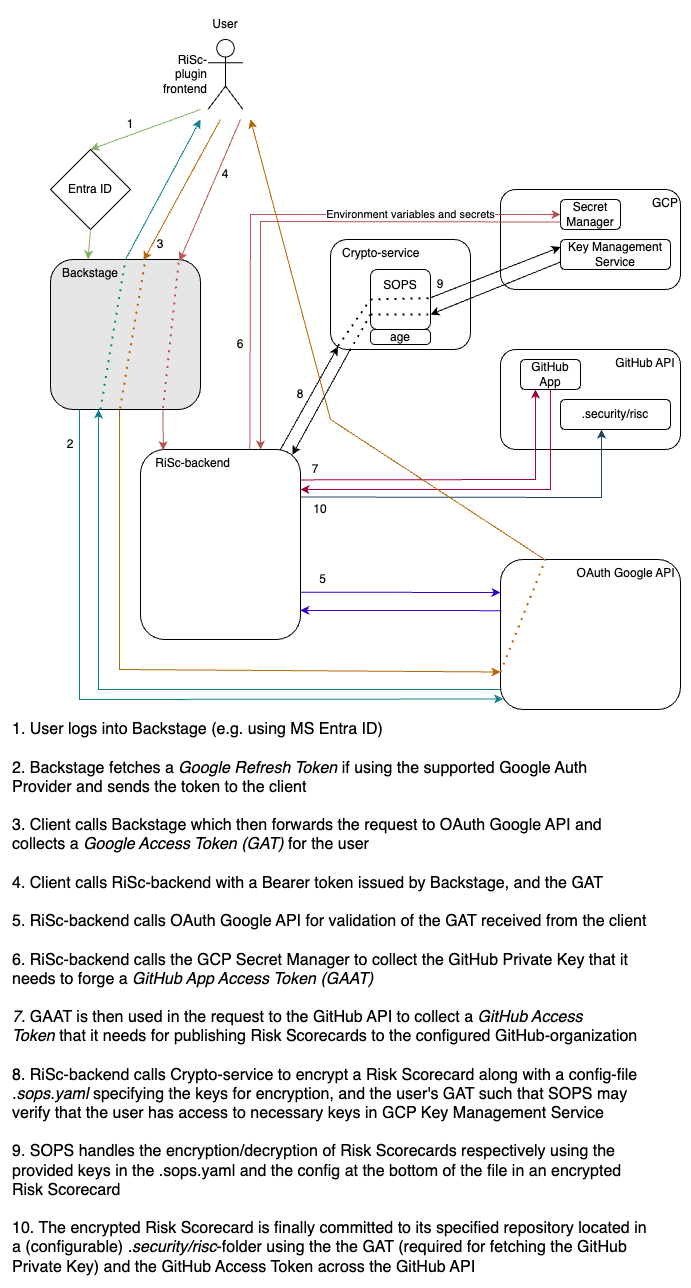
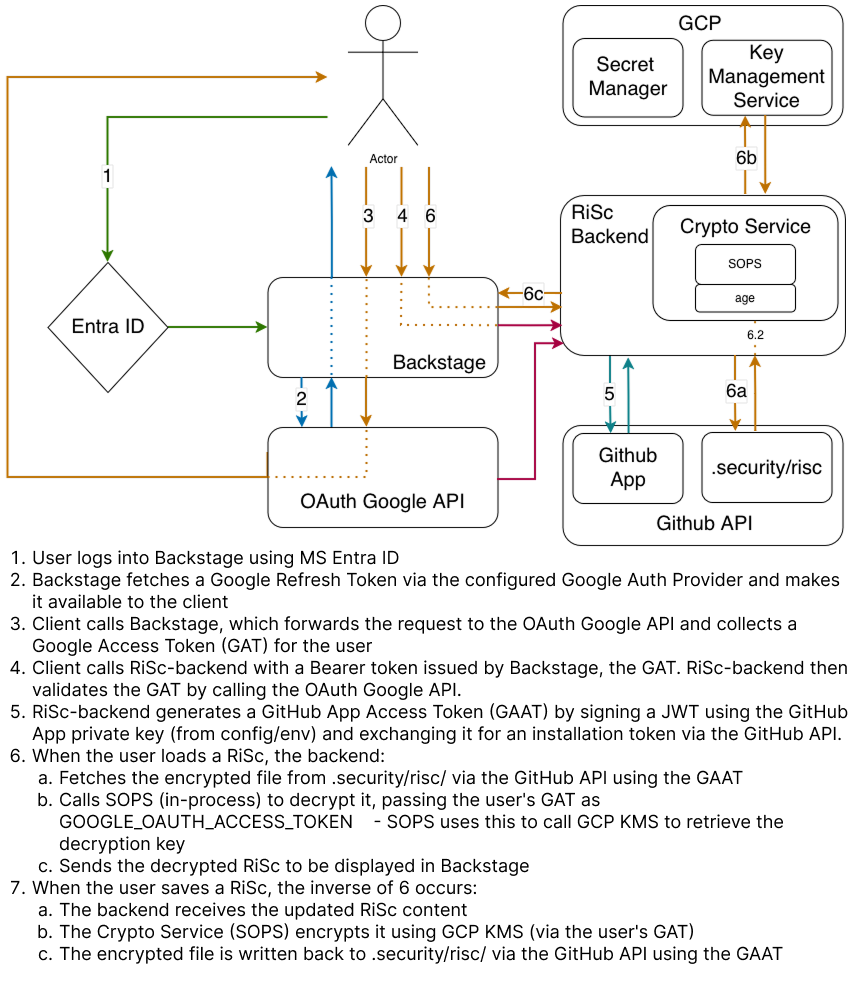
Updated readme architecture (#689)
* updated architecture

* review update

Pull request: Updated readme architecture
# 📝 Beskrivelse

[See Notion](https://www.notion.so/bekks/Oppdatere-arkitekturtegning-i-backend-README-33e6bd30854180eea5ebc25f484826f5?source=copy_link)

Would like a second pair of eyes to verify the architecture before approval. 
---

## ✅ Sjekkliste

- [x] Branchen er rebaset på `main` eller main er merget inn (Tips: om du bruker grensensittet i GitHub, så kan du velge rebase istedenfor merge. MERK: da må du slette din lokale branch og hente på nytt om du skal gjøre flere endringer).
- [x] [Test-sjekklisten i front-end repoet](https://github.com/kartverket/backstage-plugin-risk-scorecard-frontend/blob/main/CONTRIBUTING.md#test-checklist) er gjennomført hensiktsmessig (om relevant for endringen).

diff --git a/README.md b/README.md
@@ -125,11 +125,11 @@ Because we only rely on GitHub we have used the commit messages to make the deci
 
 ## High level components
 
-This backend handles encrypt and decrypt of RiSc YAML files directly via `SopsCryptoService`, which shells out to the `sops` binary at runtime using a Shamir secret-sharing scheme across Age and GCP KMS key groups.
+This backend handles encrypt and decrypt of RiSc YAML files via its internal `SopsCryptoService`, which shells out to the `sops` binary at runtime using a Shamir secret-sharing scheme across Age and GCP KMS key groups.
 
 <br>
 
-## Simplified Architecture (Warning: Outdated)
+## Simplified Architecture
 
 ![RiSc Architecture](ROS_as_code_arkitektur.png)
 